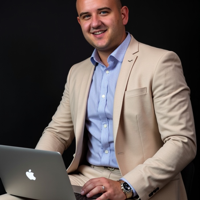
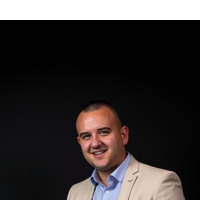
Fix: Pravilno cropovana slika mentora bez isecanja glave
- Cropovana samo glava i ramena (vrh slike)
- Uklonjen donji deo sa laptopom
- Dodat cache busting parametar (v=2) za osvežavanje browser cache-a
- Veličina dodatno smanjena na 30KB

diff --git a/dist/index.html b/dist/index.html
@@ -508,7 +508,7 @@ Naučićeš sve korake od definisanja niše i ciljne publike, preko izrade softv
             <div class="mentors-grid">
                 <div class="mentor-card">
                     <div class="mentor-image">
-                        <img src="images/nemanja.png" alt="Nemanja Lakić - Vibe Coding Mentor">
+                        <img src="images/nemanja.png?v=2" alt="Nemanja Lakić - Vibe Coding Mentor">
                     </div>
                     <div class="mentor-info">
                         <h3>Nemanja Lakić</h3>

diff --git a/index.html b/index.html
@@ -508,7 +508,7 @@ Naučićeš sve korake od definisanja niše i ciljne publike, preko izrade softv
             <div class="mentors-grid">
                 <div class="mentor-card">
                     <div class="mentor-image">
-                        <img src="images/nemanja.png" alt="Nemanja Lakić - Vibe Coding Mentor">
+                        <img src="images/nemanja.png?v=2" alt="Nemanja Lakić - Vibe Coding Mentor">
                     </div>
                     <div class="mentor-info">
                         <h3>Nemanja Lakić</h3>
